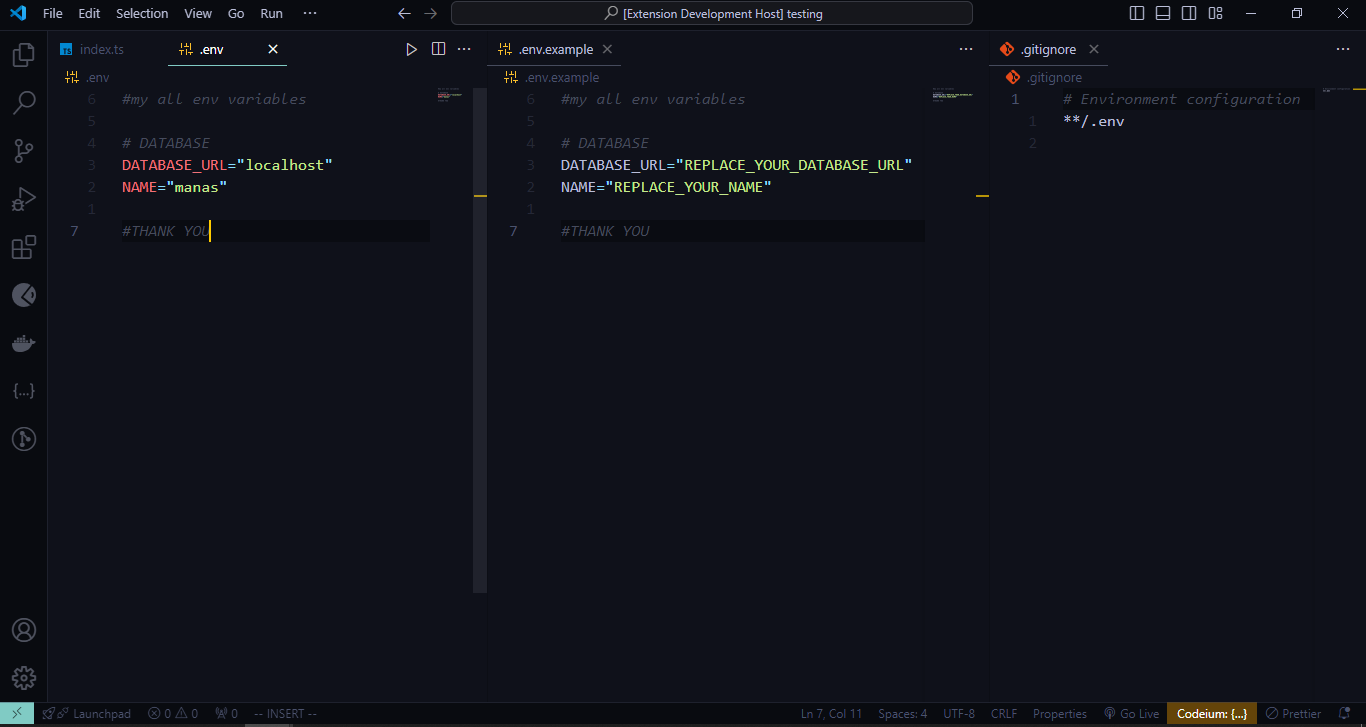
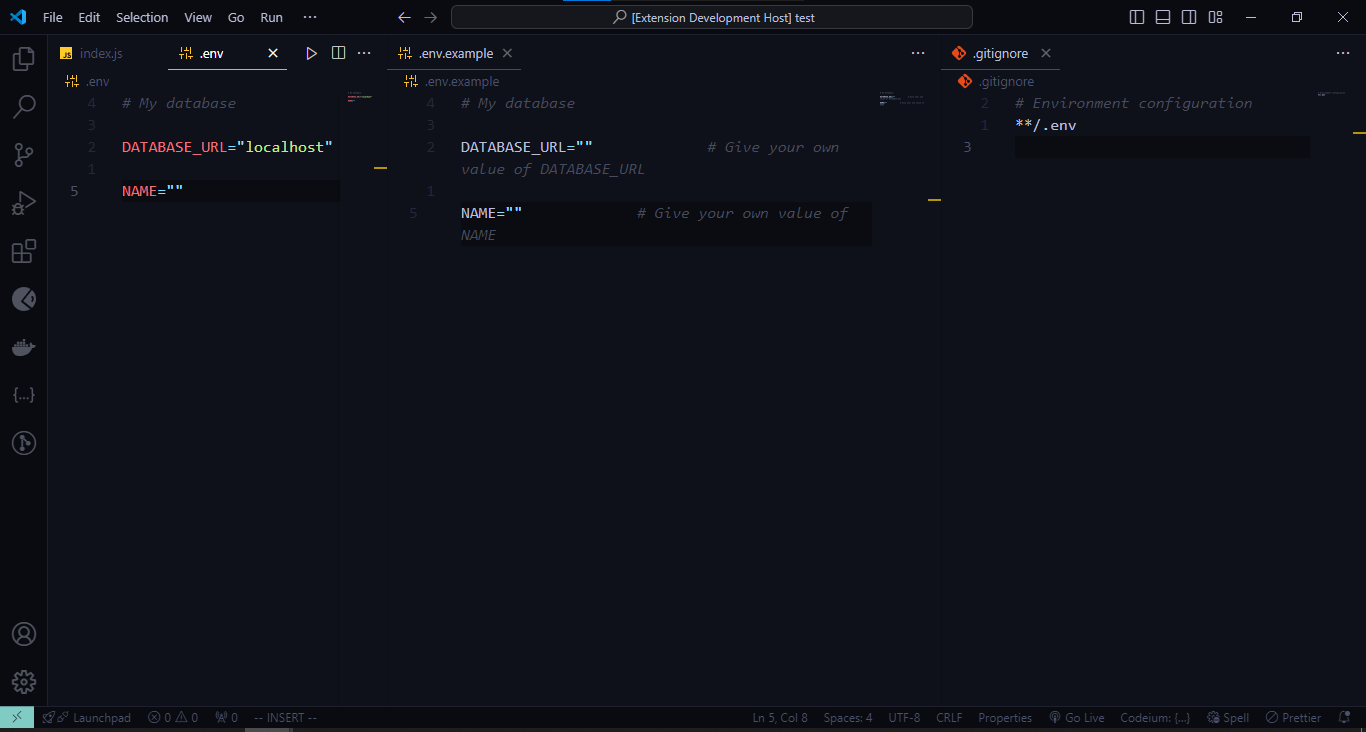
feat-ui improved

diff --git a/extension.js b/extension.js
@@ -28,7 +28,7 @@ async function updateEnvExample(envFilePath, envExampleFilePath) {
 					return line;
 				} else {
 					const [key] = line.split('=');
-					return `${key}="REPLACE_YOUR_${key}"`;
+					return `${key}="" 			# Give your own value of ${key}`;
 				}
 			})
 			.join('\n');
